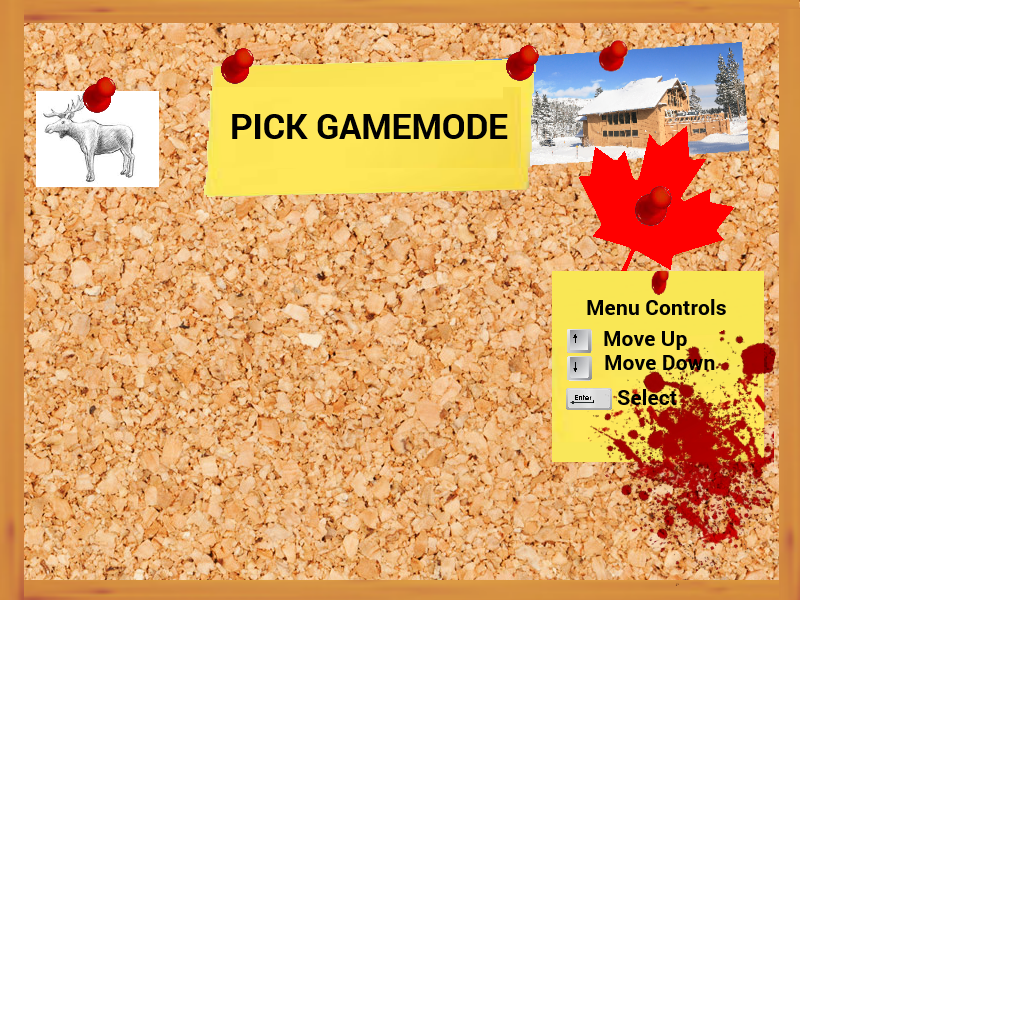
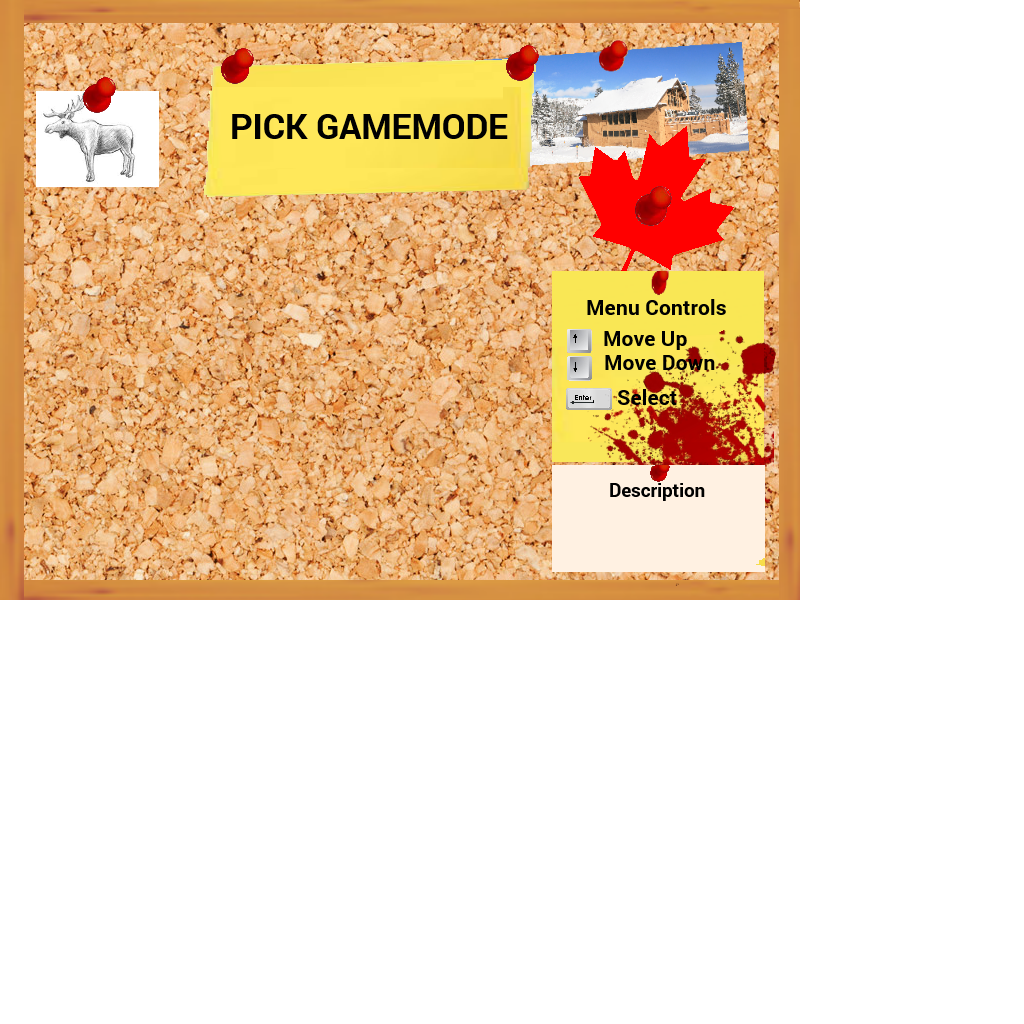
Added Mode Picker descriptions

Changed region(s): [[0.5312, 0.4375, 0.75, 0.5625]]

diff --git a/source/ModePickerState.cpp b/source/ModePickerState.cpp
@@ -281,6 +281,31 @@
 		else
 			m_pMainButton->Draw("Go Back", { 130, 480 }, { 0, 0, 0 }, { 0.9f, 0.9f }, 0);
 
+		DrawDescription(m_nCursor);
+
+	}
+}
+
+void ModePickerState::DrawDescription(int mode)
+{
+	switch (mode)
+	{
+	case ARCADE:
+		m_pFont->Draw("Classic Arcade", 560, 516, 0.3f, { 0, 0, 0 });
+		break;
+	case HARDCORE:
+		m_pFont->Draw("This mode is hard.", 560, 516, 0.3f, { 0, 0, 0 });
+		break;
+	case SANDBOX:
+		m_pFont->Draw("Unlimited Blocks!", 560, 516, 0.3f, { 0, 0, 0 });
+		break;
+	case BEAVERFEVER:
+		m_pFont->Draw("1000 beavers. 1 awesome gun.", 560, 516, 0.3f, { 0, 0, 0 });
+		break;
+	case RUNNINGMAN:
+		m_pFont->Draw("Keep moving. Or you'll die.", 560, 516, 0.3f, { 0, 0, 0 });
+		m_pFont->Draw("(True Hardcore) - Ryan Simmons", 560, 534, 0.3f, { 0, 0, 0 });
+		break;
 	}
 }
 

diff --git a/source/ModePickerState.h b/source/ModePickerState.h
@@ -63,5 +63,7 @@ private:
 	bool m_bTHEBOOL;
 	bool m_bAccept;
 	SGD::Vector m_vtStick;
+
+	void DrawDescription(int mode);
 };
 
